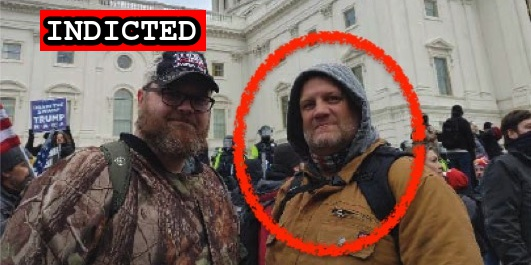
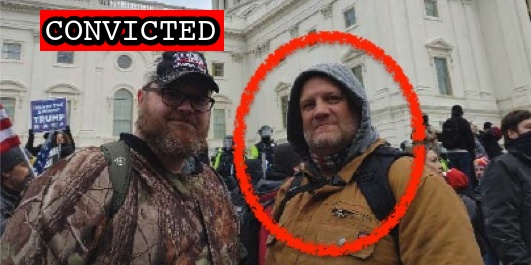
Latest import

Changed region(s): [[0.0603, 0.0302, 0.4218, 0.2113]]

diff --git a/docs/_suspects/jonathan-carlton.md b/docs/_suspects/jonathan-carlton.md
@@ -4,15 +4,15 @@ lastName: Carlton
 hashtag: DannyCarlton
 aka: Danny Carlton
 residence: Florida
-status: Indicted
+status: Convicted
 date: 2021-02-24
 charged: 2021-02-24
 indicted: 2021-03-24
-convicted:
+convicted: 2022-03-29
 sentenced:
 dismissed:
 deceased:
-plea_hearing:
+plea_hearing: 2022-03-29
 sentencing:
 age: 45
 occupation: State Corrections Officer
@@ -34,9 +34,14 @@ published: true
 caseNumber: 1:21-cr-247
 videos:
 charges:
+- code: 18 USC § 5104(e)(2)(G)
+  title: Parading, demonstrating or picketing in a Capitol building
+  url: https://www.law.cornell.edu/uscode/text/40/5104
+  felony: false
 sentence:
 ---
 - [News Report](https://www.jacksonville.com/story/news/courts/2021/03/11/corrections-officer-faces-judge-jacksonville-over-capitol-riot/4650980001/)
 - [Complaint](https://www.justice.gov/usao-dc/case-multi-defendant/file/1378516/download)
-- [Statement of Facts](https://www.justice.gov/usao-dc/case-multi-defendant/file/1378521/download)
+- [Statement of Facts](https://www.justice.gov/usao-dc/case-multi-defendant/file/1488551/download)
 - [Indictment](https://www.justice.gov/usao-dc/case-multi-defendant/file/1381321/download)
+- [Plea Agreement](https://www.justice.gov/usao-dc/case-multi-defendant/file/1488546/download)
